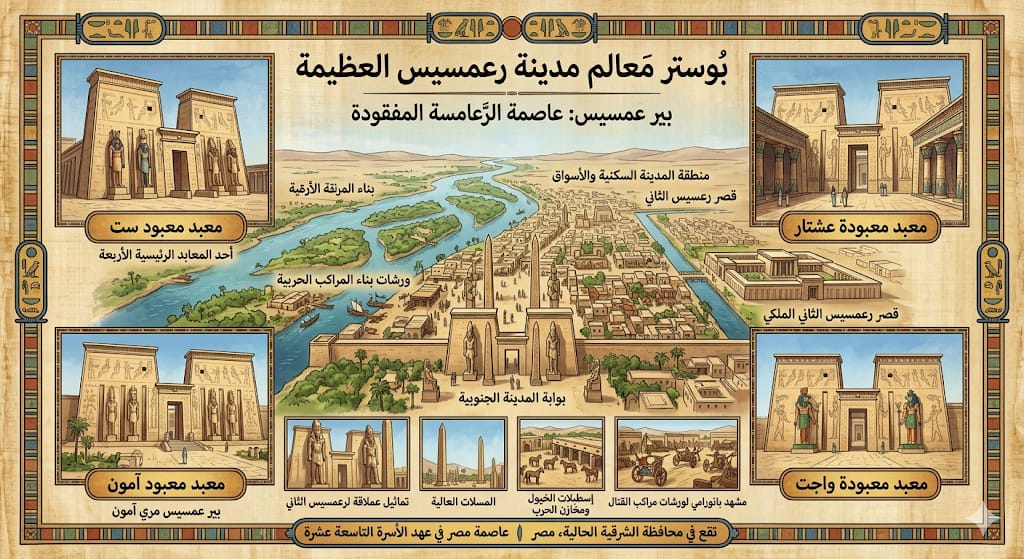
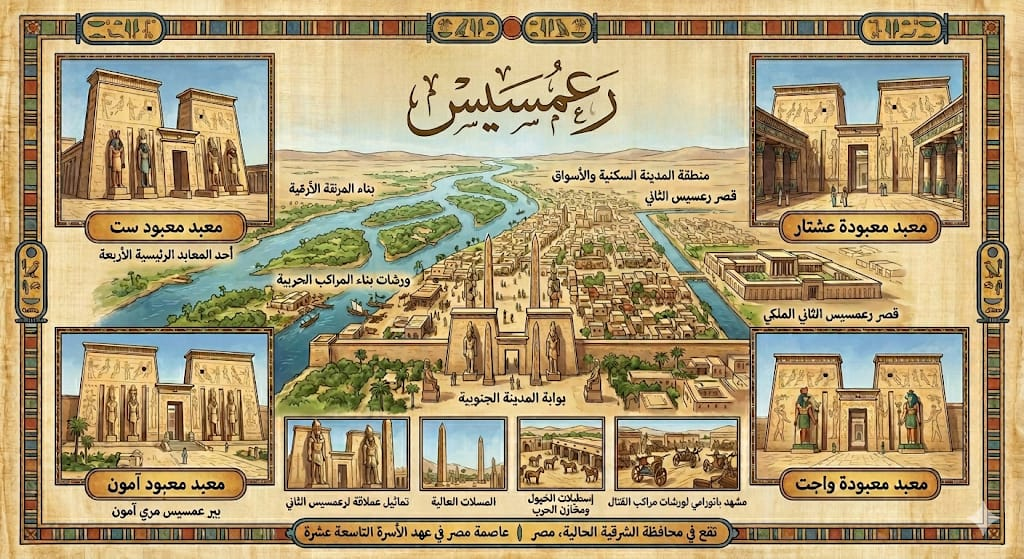
some edits

diff --git a/src/components/ProfileModal.jsx b/src/components/ProfileModal.jsx
@@ -9,25 +9,48 @@ export default function ProfileModal({ isOpen, onClose, button }) {
             audio: "/audio/first.mp3",
             image:"/pics/ramsis.jpeg",
         },
-        2: {
-            title: "إيثام",
-            text: "Content for button 2",
-            audio: "/audio/first.mp3",
-        },
-        3: {
+           2: {
             title: "سكوت",
             text: "Content for button 3",
             audio: "/audio/first.mp3",
+            image:"/pics/skoot.jpeg",
         },
+        3: {
+            title: "إيثام",
+            text: "Content for button 2",
+            audio: "/audio/first.mp3",
+            image:"/pics/ramsis.jpeg",
+        },
+     
           4: {
             title: "مجدل",
             text:"مجدل كانت نقطة حراسة مصرية على حدود مصر الشرقية. خيّم بنو إسرائيل بالقرب منها قبل عبور البحر مباشرة. في هذا المكان بدا الشعب محاصرًا بين البحر وجيش فرعون، لكن الله حوّل الموقف المستحيل إلى أعظم معجزة خلاص في رحلة الخروج",
             audio: "/audio/first.mp3",
+            image:"/pics/ramsis.jpeg",
         },
         5: {
             title: "فم حيروث",
             text:"مجدل كانت نقطة حراسة مصرية على حدود مصر الشرقية. خيّم بنو إسرائيل بالقرب منها قبل عبور البحر مباشرة. في هذا المكان بدا الشعب محاصرًا بين البحر وجيش فرعون، لكن الله حوّل الموقف المستحيل إلى أعظم معجزة خلاص في رحلة الخروج",
             audio: "/audio/first.mp3",
+            image:"/pics/ramsis.jpeg",
+        },
+        6: {
+            title: "مارة",
+            text:"مجدل كانت نقطة حراسة مصرية على حدود مصر الشرقية. خيّم بنو إسرائيل بالقرب منها قبل عبور البحر مباشرة. في هذا المكان بدا الشعب محاصرًا بين البحر وجيش فرعون، لكن الله حوّل الموقف المستحيل إلى أعظم معجزة خلاص في رحلة الخروج",
+            audio: "/audio/first.mp3",
+            image:"/pics/ramsis.jpeg",
+        },
+        7: {
+            title: "إيليم",
+            text:"مجدل كانت نقطة حراسة مصرية على حدود مصر الشرقية. خيّم بنو إسرائيل بالقرب منها قبل عبور البحر مباشرة. في هذا المكان بدا الشعب محاصرًا بين البحر وجيش فرعون، لكن الله حوّل الموقف المستحيل إلى أعظم معجزة خلاص في رحلة الخروج",
+            audio: "/audio/first.mp3",
+            image:"/pics/ramsis.jpeg",
+        },
+        8: {
+            title: "رفيديم",
+            text:"مجدل كانت نقطة حراسة مصرية على حدود مصر الشرقية. خيّم بنو إسرائيل بالقرب منها قبل عبور البحر مباشرة. في هذا المكان بدا الشعب محاصرًا بين البحر وجيش فرعون، لكن الله حوّل الموقف المستحيل إلى أعظم معجزة خلاص في رحلة الخروج",
+            audio: "/audio/first.mp3",
+            image:"/pics/ramsis.jpeg",
         },
     };
      const [showImage,setShowImage]=useState(false);
@@ -47,7 +70,7 @@ export default function ProfileModal({ isOpen, onClose, button }) {
                 
                     <div className="flex justify-between mb-4" >
                         <h2 className="text-2xl font-bold">{content[button]?.title}</h2>
-                        <button onClick={handleClose} className=" flex justify-end font-semibold text-2xl">x</button>
+                        <button onClick={handleClose} className=" flex justify-end font-semibold text-2xl cursor-pointer hover:text-amber-900 hover:scale-120 transition">x</button>
                     </div>
                     
                     <div className="flex items-center gap-4">
@@ -65,7 +88,7 @@ export default function ProfileModal({ isOpen, onClose, button }) {
                 </div>
                 {showImage && (
     <div
-        className="fixed inset-0 bg-black/80 flex justify-center items-center z-[60]"
+        className="fixed inset-0 bg-black/80 flex justify-center items-center z-60"
         onClick={() => setShowImage(false)}
     >
         <img

diff --git a/src/pages/Journey.jsx b/src/pages/Journey.jsx
@@ -10,7 +10,7 @@ export default function Journey() {
             <div className="flex justify-center -z-10 m-3">
                 <PageTitle title="رحلة إيمان عبر اليرية" />
             </div>
-            <div className="relative w-full max-w-200">
+            <div className="flex justify-center relative w-full max-w-200">
                 <img
                     src="/map.jpg"
                     alt="map"
@@ -20,18 +20,28 @@ export default function Journey() {
                 <div className="absolute top-[18%] left-[19.5%]">
                     <Button number="1" onClick={()=>setSelectButton(1)}/>
                 </div>
+                <div className="absolute top-[30%] left-[25%]">
+                    <Button number="2" onClick={()=> setSelectButton(2)} />
+                </div>
 
-                <div className="absolute top-[20.3%] left-[25%]">
-                    <Button number="2" onClick={()=>setSelectButton(2)}/>
+                <div className="absolute top-[20.8%] left-[25%]">
+                    <Button number="3" onClick={()=>setSelectButton(3)}/>
                 </div>
-                <div className="absolute top-[29%] left-[25%]">
-                    <Button number="3" onClick={()=> setSelectButton(3)} />
-                </div>
-                <div className="absolute top-[40%] left-[25%]">
+                
+                <div className="absolute top-[40%] left-[25.2%]">
                     <Button number="4" onClick={()=> setSelectButton(4)} />
                 </div>
-                <div className="absolute top-[47%] left-[33%]">
+                <div className="absolute top-[48%] left-[33%]">
                     <Button number="5" onClick={()=> setSelectButton(5)} />
+                </div>
+                <div className="absolute top-[55%] left-[39%]">
+                    <Button number="6" onClick={()=> setSelectButton(6)} />
+                </div>
+                <div className="absolute top-[63%] left-[42.21%]">
+                    <Button number="7" onClick={()=> setSelectButton(7)} />
+                </div>
+                <div className="absolute top-[69%] left-[52%]">
+                    <Button number="8" onClick={()=> setSelectButton(8)} />
                 </div>
             </div>
         </div>

diff --git a/src/components/atoms/Button.jsx b/src/components/atoms/Button.jsx
@@ -1,5 +1,5 @@
 export default function Button({number,onClick}){
     return(
-        <button onClick={onClick} className="bg-red-950 text-zinc-300 hover:bg-amber-500 font-semibold px-2 py-1 rounded-full text-sm">{number}</button>
+        <button onClick={onClick} className="bg-red-950 text-zinc-300 hover:bg-amber-500 font-semibold px-2 py-1 rounded-full text-sm cursor-pointer ">{number}</button>
     )
 }

diff --git a/src/components/atoms/Sound.jsx b/src/components/atoms/Sound.jsx
@@ -12,7 +12,7 @@ export default function Sound({ audioRef }) {
 
     return(
         <div>
-            <button onClick={toggleSound} className="cursor-pointer text-3xl text-blue-500"><AiOutlineSound/></button>
+            <button onClick={toggleSound} className="cursor-pointer hover:scale-150 transition text-3xl text-blue-500"><AiOutlineSound/></button>
         
         </div>
     )

diff --git a/src/pages/References.jsx b/src/pages/References.jsx
@@ -2,7 +2,7 @@ import PageTitle from "../components/atoms/PageTitle";
 export default function References() {
     return (
         <div>
-            <div className="flex justify-center ">
+            <div className="flex justify-center -z-10 m-3">
                 <PageTitle title="المراجع" />
             </div>
             <div className="flex justify-end mr-4">الاليال نتسبتنتسن نبسنتنتبن نتبانت</div>